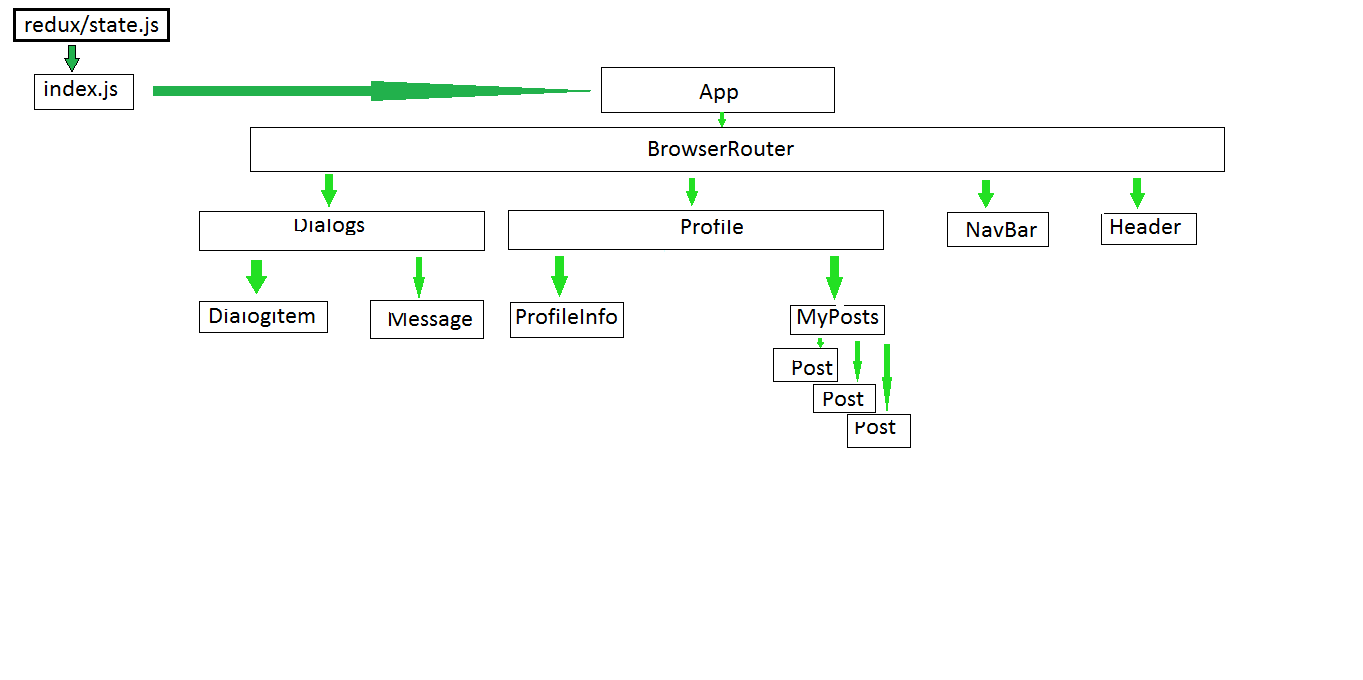
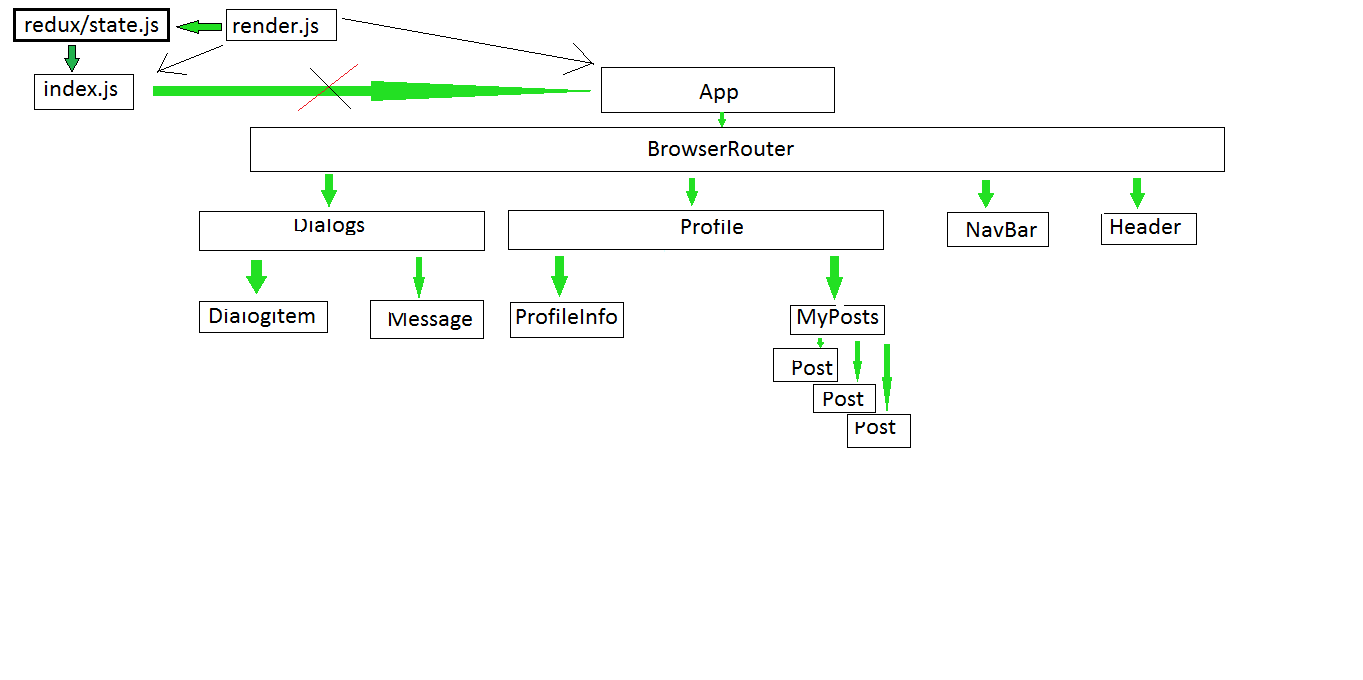
rerender, flux, add new posts

Changed region(s): [[0.0924, 0.1235, 0.4314, 0.1544], [0.1233, 0.0309, 0.2465, 0.0618]]

diff --git a/src/components/profile/myPosts/MyPosts.jsx b/src/components/profile/myPosts/MyPosts.jsx
@@ -7,9 +7,10 @@ const MyPosts = (props) => {
   let newPostElement = React.createRef();
 
   let addPost = () => {
-    debugger;
+    // debugger;
       let text = newPostElement.current.value;
     props.addPost(text);
+    newPostElement.current.value = '';   //очищаем поле ввода эриа
   }
 
   return (
@@ -21,7 +22,7 @@ const MyPosts = (props) => {
             <textarea ref={newPostElement} rows='10' cols='50'></textarea>
           </div>
           <div className={s.btn}>
-            <button className={s.postBtn} onClick={ addPost } >Add post</button>
+            <button className={s.postBtn} type='button' onClick={ addPost } >Add post</button>
           </div>
         </div>
       </form>

diff --git a/src/index.js b/src/index.js
@@ -1,18 +1,12 @@
-import React from 'react';
-import ReactDOM from 'react-dom';
-import './index.css';
-import App from './App';
+
 import * as serviceWorker from './serviceWorker';
+import {rerenderEntireTree} from './render';
 import state from './redux/state';
-import {addPost} from './redux/state';
 
 
-ReactDOM.render(
-  <React.StrictMode>
-    <App appState={state} addPost={addPost}/>
-  </React.StrictMode>,
-  document.getElementById('root')
-);
+rerenderEntireTree(state);
+
+
 
 // If you want your app to work offline and load faster, you can change
 // unregister() to register() below. Note this comes with some pitfalls.

diff --git a/src/redux/state.js b/src/redux/state.js
@@ -1,3 +1,5 @@
+import {rerenderEntireTree} from './../render';
+
 let state = {
     profilePage:{
         posts: [
@@ -27,13 +29,14 @@ let state = {
   }
 
   export let addPost = (postMessage) => {
-      debugger;
+      
       let newPost = {
           id: 5,
           post: postMessage,
           counter: 0
       };
       state.profilePage.posts.push(newPost);
+      rerenderEntireTree(state);
   }
 
   export default state;

diff --git a/src/render.js b/src/render.js
@@ -1,0 +1,14 @@
+import React from 'react';
+import ReactDOM from 'react-dom';
+import './index.css';
+import App from './App';
+import {addPost} from './redux/state';
+
+export let rerenderEntireTree = (state) => {
+  ReactDOM.render(
+    <React.StrictMode>
+      <App appState={state} addPost={addPost}/>
+    </React.StrictMode>,
+    document.getElementById('root')
+  );
+}
